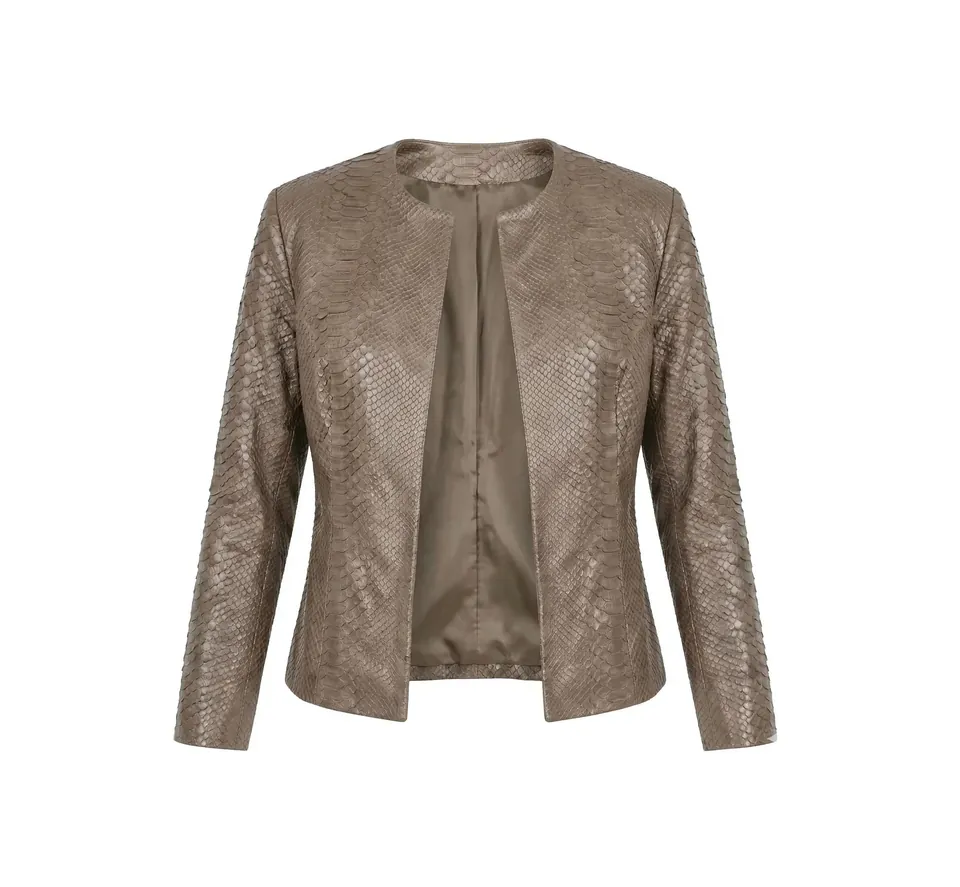
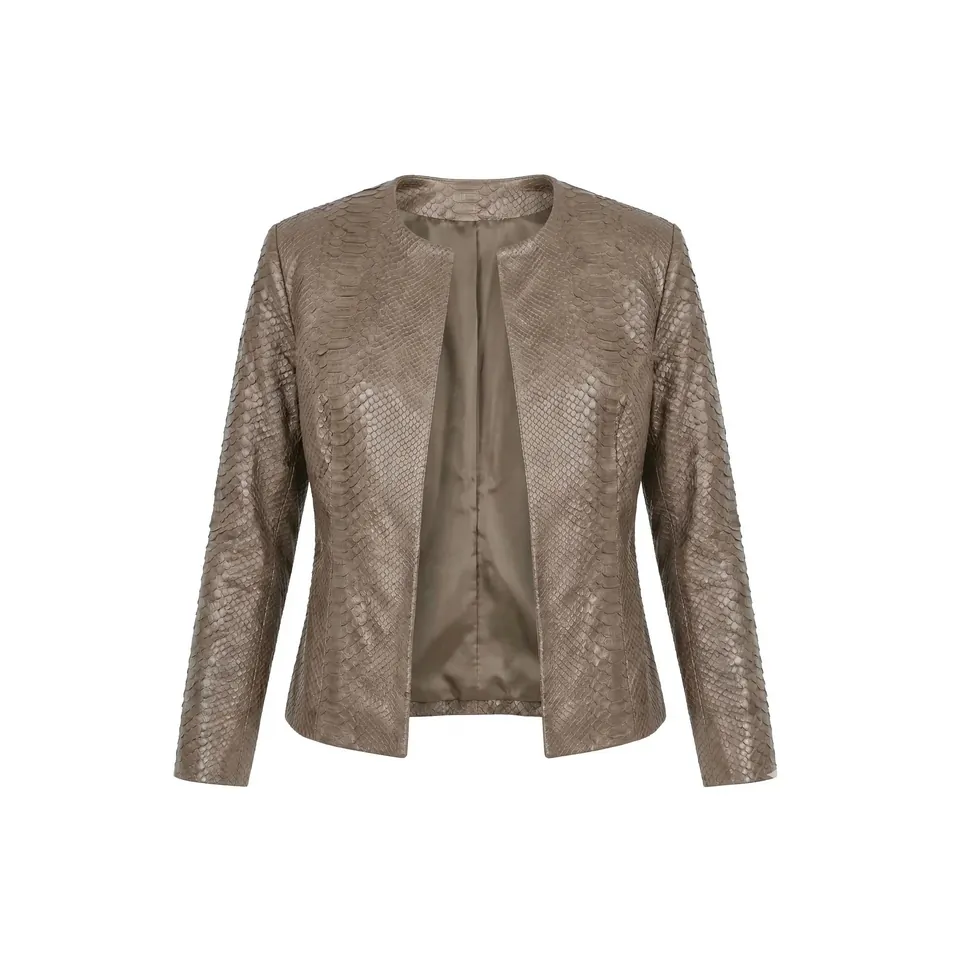
Preserve full product photos in catalog cards

Changed region(s): [[0.1562, 0.1522, 0.8125, 0.8523]]

diff --git a/components/catalog/ProductCard.tsx b/components/catalog/ProductCard.tsx
@@ -59,8 +59,8 @@ export const ProductCard = ({ product, animationIndex = 0 }: ProductCardProps) =
         <div
           style={{
             width: "100%",
-            height: isMobile ? 260 : 360,
-            background: visual.surface,
+            aspectRatio: "1 / 1",
+            background: COLORS.background.photo,
             display: "flex",
             alignItems: "center",
             justifyContent: "center",
@@ -85,8 +85,9 @@ export const ProductCard = ({ product, animationIndex = 0 }: ProductCardProps) =
             variant="card"
             sizes="(max-width: 768px) 100vw, (max-width: 1200px) 50vw, 33vw"
             style={{
-              objectFit: "cover",
-              objectPosition: "top center",
+              objectFit: "contain",
+              objectPosition: "center center",
+              background: COLORS.background.photo,
             }}
             placeholderStyle={{
               objectFit: "cover",

diff --git a/constants/styles.ts b/constants/styles.ts
@@ -22,6 +22,7 @@ export const COLORS = {
     footer: "rgba(8,8,9,0.88)",
     soft: "rgba(255,255,255,0.03)",
     accent: "rgba(244,195,77,0.08)",
+    photo: "#c3c2bb",
   },
   border: {
     default: "rgba(255,255,255,0.10)",

diff --git a/scripts/convert_to_webp.py b/scripts/convert_to_webp.py
@@ -3,10 +3,13 @@
 import io
 import sys
 from pathlib import Path
+from statistics import median
 
 FULL_QUALITY = 85
 CARD_QUALITY = 80
-CARD_MAX_SIZE = (960, 1200)
+CARD_MAX_SIZE = (960, 960)
+CARD_VARIANT_VERSION = "square-contain-v1"
+CARD_VARIANT_VERSION_FILE = ".variant-version"
 
 
 def configure_windows_console() -> None:
@@ -35,11 +38,57 @@ def needs_refresh(source_path: Path, target_path: Path) -> bool:
     return target_path.stat().st_mtime_ns < source_changed_at
 
 
+def estimate_background_color(image) -> tuple[int, int, int]:
+    """Подбирает нейтральные поля по четырём углам исходного изображения."""
+    from PIL import ImageStat
+
+    rgb_image = image.convert("RGB")
+    width, height = rgb_image.size
+    sample_size = max(1, min(width, height) // 20)
+    boxes = (
+        (0, 0, sample_size, sample_size),
+        (width - sample_size, 0, width, sample_size),
+        (0, height - sample_size, sample_size, height),
+        (width - sample_size, height - sample_size, width, height),
+    )
+    corner_colors = [
+        tuple(int(value) for value in ImageStat.Stat(rgb_image.crop(box)).median[:3])
+        for box in boxes
+    ]
+
+    return tuple(
+        int(median(color[channel] for color in corner_colors))
+        for channel in range(3)
+    )
+
+
+def pad_to_square(image):
+    """Вписывает изображение целиком в квадрат без кропа."""
+    from PIL import Image
+
+    width, height = image.size
+    square_size = max(width, height)
+    if width == height:
+        return image
+
+    background = estimate_background_color(image)
+    canvas = Image.new("RGB", (square_size, square_size), background)
+    offset = ((square_size - width) // 2, (square_size - height) // 2)
+
+    if image.mode == "RGBA":
+        canvas.paste(image, offset, image)
+    else:
+        canvas.paste(image.convert("RGB"), offset)
+
+    return canvas
+
+
 def convert_to_webp(
     input_path: Path,
     output_path: Path,
     quality: int,
     max_size: tuple[int, int] | None = None,
+    square_canvas: bool = False,
 ) -> tuple[int, int]:
     """Конвертирует JPG в WebP и возвращает размеры исходника и результата."""
     from PIL import Image
@@ -57,6 +106,9 @@ def convert_to_webp(
         if max_size is not None:
             image.thumbnail(max_size, Image.Resampling.LANCZOS)
 
+        if square_canvas:
+            image = pad_to_square(image)
+
         image.save(output_path, "WebP", quality=quality, method=6)
 
     return input_path.stat().st_size, output_path.stat().st_size
@@ -68,9 +120,11 @@ def ensure_variant(
     *,
     quality: int,
     max_size: tuple[int, int] | None = None,
+    square_canvas: bool = False,
+    force_refresh: bool = False,
 ) -> tuple[bool, int]:
     """Обновляет вариант при необходимости; возвращает факт конвертации и размер."""
-    if not needs_refresh(source_path, target_path):
+    if not force_refresh and not needs_refresh(source_path, target_path):
         return False, target_path.stat().st_size
 
     _, target_size = convert_to_webp(
@@ -78,6 +132,7 @@ def ensure_variant(
         target_path,
         quality=quality,
         max_size=max_size,
+        square_canvas=square_canvas,
     )
     return True, target_size
 
@@ -163,6 +218,7 @@ def main() -> int:
     jpg_dir = project_root / "public" / "images" / "products" / "jpg"
     webp_dir = project_root / "public" / "images" / "products" / "webp"
     card_webp_dir = webp_dir / "card"
+    card_variant_version_path = card_webp_dir / CARD_VARIANT_VERSION_FILE
 
     if not jpg_dir.exists():
         print(f"❌ Папка не найдена: {jpg_dir}")
@@ -189,6 +245,11 @@ def main() -> int:
 
     webp_dir.mkdir(parents=True, exist_ok=True)
     card_webp_dir.mkdir(parents=True, exist_ok=True)
+    card_variant_needs_refresh = (
+        not card_variant_version_path.exists()
+        or card_variant_version_path.read_text(encoding="utf-8").strip()
+        != CARD_VARIANT_VERSION
+    )
 
     project_root_resolved = project_root.resolve()
     for generated_dir in (webp_dir, card_webp_dir):
@@ -240,6 +301,8 @@ def main() -> int:
                 card_path,
                 quality=CARD_QUALITY,
                 max_size=CARD_MAX_SIZE,
+                square_canvas=True,
+                force_refresh=card_variant_needs_refresh,
             )
         except Exception as error:
             errors += 1
@@ -260,6 +323,12 @@ def main() -> int:
         print(
             f"{'🔄' if statuses else '✓'} {image_path.name}: {status}; "
             f"{full_size / 1024:.1f} KB / {card_size / 1024:.1f} KB"
+        )
+
+    if errors == 0:
+        card_variant_version_path.write_text(
+            f"{CARD_VARIANT_VERSION}\n",
+            encoding="utf-8",
         )
 
     print(f"\n{'=' * 60}")

diff --git a/scripts/test_convert_to_webp.py b/scripts/test_convert_to_webp.py
@@ -7,10 +7,39 @@ from tempfile import TemporaryDirectory
 
 sys.path.insert(0, str(Path(__file__).parent))
 
-from convert_to_webp import prune_stale_variants
+from convert_to_webp import convert_to_webp, prune_stale_variants
 
 
 class WebpSyncTests(unittest.TestCase):
+    def test_card_variant_preserves_full_portrait_inside_square(self) -> None:
+        try:
+            from PIL import Image, ImageDraw
+        except ModuleNotFoundError:
+            self.skipTest("Pillow недоступен в текущем Python runtime")
+
+        with TemporaryDirectory() as temp_dir:
+            root = Path(temp_dir)
+            source_path = root / "portrait.jpg"
+            target_path = root / "card.webp"
+            source = Image.new("RGB", (100, 200), (240, 237, 232))
+            draw = ImageDraw.Draw(source)
+            draw.rectangle((30, 20, 70, 190), fill=(12, 12, 12))
+            source.save(source_path, "JPEG", quality=100)
+
+            convert_to_webp(
+                source_path,
+                target_path,
+                quality=100,
+                max_size=(960, 960),
+                square_canvas=True,
+            )
+
+            with Image.open(target_path) as card:
+                card = card.convert("RGB")
+                self.assertEqual(card.size, (200, 200))
+                self.assertLess(sum(card.getpixel((100, 185))) / 3, 80)
+                self.assertGreater(sum(card.getpixel((10, 100))) / 3, 200)
+
     def test_prunes_only_webp_without_source(self) -> None:
         with TemporaryDirectory() as temp_dir:
             root = Path(temp_dir)

diff --git a/design-qa.md b/design-qa.md
@@ -155,3 +155,53 @@
   потребовалось.
 
 final result: passed
+
+## Дополнительный QA — фотографии каталога без кропа
+
+### Источник и состояние
+
+- Source visual truth: live-каталог до изменения, в котором вертикальные
+  исходники обрезались фиксированной media-областью с `object-fit: cover`.
+- До, общий каталог:
+  `E:\AI Projects\mexmet metix\tmp\design-qa\catalog-crop-before-809.png`.
+- До, фокус на товаре `Штаны из молочной кожи`:
+  `E:\AI Projects\mexmet metix\tmp\design-qa\catalog-portrait-before.png`.
+- После, общий каталог:
+  `E:\AI Projects\mexmet metix\tmp\design-qa\catalog-crop-after-809.png`.
+- После, тот же товар:
+  `E:\AI Projects\mexmet metix\tmp\design-qa\catalog-portrait-after.png`.
+- Полное сравнение до/после:
+  `E:\AI Projects\mexmet metix\tmp\design-qa\catalog-portrait-before-vs-after.jpg`.
+- Mobile после:
+  `E:\AI Projects\mexmet metix\tmp\design-qa\catalog-mobile-after.png`.
+- Проверенные viewport: desktop-композиция `809 × 736`, mobile
+  `390 × 844`, device density `1`.
+
+### Сравнение и итерация
+
+- P2 до: `cover` масштабировал портретный исходник `800 × 1200` по ширине и
+  отрезал нижнюю часть изделия.
+- Исправление: карточный WebP теперь автоматически вписывает исходник в квадрат,
+  а цвет полей вычисляется по медиане четырёх углов фотографии.
+- Защита UI: media-область стала квадратной; реальное фото использует
+  `object-fit: contain` и центрирование на всех breakpoint.
+- Защита pipeline: `.variant-version` заставляет пересобрать существующий
+  карточный слой при изменении алгоритма.
+- После: товар виден целиком; пропорции и центрирование одинаково устойчивы в
+  двухколоночной desktop-сетке и одноколоночной mobile-сетке.
+
+### Пять поверхностей fidelity
+
+- Типографика: без изменений; карточная иерархия сохранена.
+- Ритм и компоновка: квадратные изображения дают устойчивую высоту карточек;
+  ширина документа на mobile равна ширине viewport, overflow отсутствует.
+- Цвет: фон отдельной карточки подстраивается под исходник; системный fallback
+  использует нейтральный `#c3c2bb`.
+- Ассеты: все `60` карточных WebP проверены как квадратные; исходные JPG/JPEG и
+  полноразмерные WebP не редактируются.
+- Copy и взаимодействие: без изменений; alt-текст и кликабельность всей карточки
+  сохранены.
+
+Активных P0/P1/P2-расхождений после реализации не найдено.
+
+final result: passed

diff --git a/product-audit.md b/product-audit.md
@@ -80,3 +80,54 @@ Georgia и локальные веса `800–900` делали суммы и н
 Проверены responsive-композиция, DOM-семантика, ключевые мышиные переходы,
 console и regression-команды. Это не заменяет полный WCAG-аудит со screen reader
 и отдельную проверку реальными iOS/Android-устройствами.
+
+## Focused audit — catalog photo cropping
+
+Дата проверки: 28 июля 2026.
+
+### Scope и user goal
+
+Проверено отображение реальных фотографий товаров в каталоге на desktop-сетке
+и mobile `390 × 844`. Цель — сохранить изделие целиком без ручного добавления
+полей к исходным JPG/JPEG.
+
+### Journey health
+
+| Шаг | До | После |
+| --- | --- | --- |
+| Открыть категорию | At risk | Healthy |
+| Просмотреть квадратное фото | Healthy | Healthy |
+| Просмотреть вертикальное фото | Broken | Healthy |
+| Просмотреть ту же карточку на mobile | At risk | Healthy |
+
+### Finding и исправление
+
+`ProductCard` использовал фиксированную высоту и `object-fit: cover`. Для
+исходника `800 × 1200` это визуально отрезало около трети высоты и могло убирать
+нижнюю часть изделия.
+
+Исправление выполнено на двух уровнях:
+
+- генератор `webp/card` вписывает исходник целиком в квадрат и заполняет поля
+  цветом, вычисленным по четырём углам фотографии;
+- карточка каталога использует квадратную media-область и
+  `object-fit: contain` на всех breakpoint.
+
+Версия формата карточного слоя хранится в `.variant-version`, поэтому изменение
+алгоритма принудительно пересобирает старые превью. Исходные JPG/JPEG остаются
+единственным ручным источником правды.
+
+### Evidence
+
+- До, вертикальная карточка:
+  `E:\AI Projects\mexmet metix\tmp\design-qa\catalog-portrait-before.png`.
+- После, тот же товар:
+  `E:\AI Projects\mexmet metix\tmp\design-qa\catalog-portrait-after.png`.
+- Совмещённое сравнение:
+  `E:\AI Projects\mexmet metix\tmp\design-qa\catalog-portrait-before-vs-after.jpg`.
+- Mobile после:
+  `E:\AI Projects\mexmet metix\tmp\design-qa\catalog-mobile-after.png`.
+
+В mobile-режиме ширина документа и viewport совпадают (`390 px`),
+горизонтального переполнения нет. Все проверенные карточные изображения
+загружены как `960 × 960` и используют `contain`.

diff --git a/data/README.md b/data/README.md
@@ -105,8 +105,10 @@
 5. Запустите «Запустить с обновлением» или `python Excel/parse_excel.py --auto`: парсер сам добавит `photo`, если файл найден.
 6. Запустите `python scripts/convert_to_webp.py --auto`: скрипт создаст
    полноразмерный `webp/<имя>.webp` для страницы товара и уменьшенный
-   `webp/card/<имя>.webp` для карточек. Изменённые исходники пересобираются, а
-   WebP без соответствующего JPG/JPEG автоматически удаляются рекурсивно.
+   `webp/card/<имя>.webp` для карточек. Карточный вариант автоматически
+   вписывается целиком в квадрат; цвет полей берётся из углов исходной
+   фотографии. Изменённые исходники пересобираются, а WebP без соответствующего
+   JPG/JPEG автоматически удаляются рекурсивно.
 
 Фото не обязательно добавлять сразу. Без него модель остаётся валидной, а каталог показывает `__photo_pending`. При каждом запуске `npm run validate:images` выводится количество моделей без фото и список с номерами строк Excel. Для существующего `photo` карточный WebP обязателен; отсутствие полноразмерного WebP остаётся предупреждением, потому что UI умеет перейти на исходный JPG.
 
@@ -115,6 +117,10 @@
 копии вручную. При удалении или переименовании JPG сначала обновите данные
 парсером, затем запустите конвертер; сценарий «Запустить с обновлением» делает
 оба шага в правильном порядке.
+
+Не добавляйте поля и не подгоняйте пропорции исходника вручную: каталог
+показывает квадратный generated-вариант через `object-fit: contain`, поэтому
+детали изделия сохраняются и на телефоне, и на desktop.
 
 ## Категории
 

diff --git a/docs/AI_CONTEXT.md b/docs/AI_CONTEXT.md
@@ -76,7 +76,8 @@ It may contain:
 - `npm run validate:images` reports every model without a photo and its Excel row numbers. A missing `photo` is valid; a `photo` path whose file is missing or whose card WebP was not generated is an error.
 - `OptimizedImage` uses `webp/card` for grids and the home menu. Its fallback is card WebP -> full WebP -> the exact original JPG/JPEG path -> shared `__photo_pending` -> system image icon.
 - `public/images/products/jpg/` is the only manually maintained image source. `scripts/convert_to_webp.py` regenerates changed variants and recursively prunes derived `.webp` files with no JPG/JPEG source; never maintain `webp/` or `webp/card/` by hand.
-- The shared photo placeholder always uses `object-fit: contain` with stable inner padding across catalog/detail breakpoints; real product photos keep their normal crop rules.
+- Generated card WebPs are square contain canvases. The converter samples the four source corners for a neutral background, so portrait and near-square product photos keep the full subject without hand-added margins.
+- Catalog cards use a square media region with `object-fit: contain` at every breakpoint. The shared placeholder keeps its dedicated cover treatment.
 - Product cards and category cards should not imply clickability beyond their real clickable area.
 - Intro copy at the top of pages should be quiet and compact.
 - In `Work`, a year expands from its header. A shipment expands from the whole

diff --git a/docs/ARCHITECTURE.md b/docs/ARCHITECTURE.md
@@ -208,8 +208,10 @@ breakpoint через User-Agent, `headers()` или `cookies()` в layout не 
 - Карточный fallback: `webp/card` → полноразмерный WebP → исходный JPG →
   `__photo_pending` → системная иконка изображения.
 - `public/images/products/jpg/` — ручной источник правды; оба WebP-слоя
-  генерируются. Конвертер удаляет лишние производные `.webp` рекурсивно, поэтому
-  ручная синхронизация трёх папок запрещена.
+  генерируются. Карточный слой нормализуется в квадрат без кропа и получает
+  автоматически подобранные поля по углам исходника. Конвертер удаляет лишние
+  производные `.webp` рекурсивно, поэтому ручная синхронизация трёх папок
+  запрещена.
 
 Контрольные цифры и порядок проверки находятся в `docs/PERFORMANCE.md`.
 

diff --git a/AGENTS.md b/AGENTS.md
@@ -64,7 +64,7 @@ If you need a production build, stop any active dev server first. A running dev 
 - `sample` is only a marker; it must not force quantity to `1` when sizes or Excel column G already define the quantity.
 - Catalog `photo` is optional. The parser writes it only when the matching JPG/JPEG exists; `excelRows` records every source row for startup diagnostics.
 - Missing catalog photos are valid and use the shared `__photo_pending` placeholder. A present-but-broken `photo` path remains a validation error.
-- Product grids and the home menu use `webp/card`; product detail uses full `webp`. Keep the fallback chain card WebP → full WebP → exact source JPG/JPEG → shared placeholder.
+- Product grids and the home menu use square contain `webp/card` variants; product detail uses full `webp`. Keep the fallback chain card WebP → full WebP → exact source JPG/JPEG → shared placeholder.
 - `public/images/products/jpg/` is the only manually maintained image source. Full/card WebP files are generated; `scripts/convert_to_webp.py` safely prunes derived `.webp` files whose JPG/JPEG source was removed.
 
 ## UI Rules

diff --git a/README.md b/README.md
@@ -169,7 +169,9 @@ public/images/products/webp/card/  облегчённые WebP для карто
 
 Имя файла должно совпадать с названием модели. Если фото ещё нет, каталог
 использует общий `__photo_pending`. Конвертер создаёт оба WebP-варианта и
-пересобирает их после изменения исходного JPG.
+пересобирает их после изменения исходного JPG. Карточный вариант автоматически
+вписывает исходник целиком в квадрат и подбирает поля по углам фотографии:
+вручную обрезать фото или дорисовывать фон не нужно.
 
 Папка `jpg/` — единственный источник правды. Файлы в `webp/` и `webp/card/`
 вручную редактировать или удалять не нужно:
